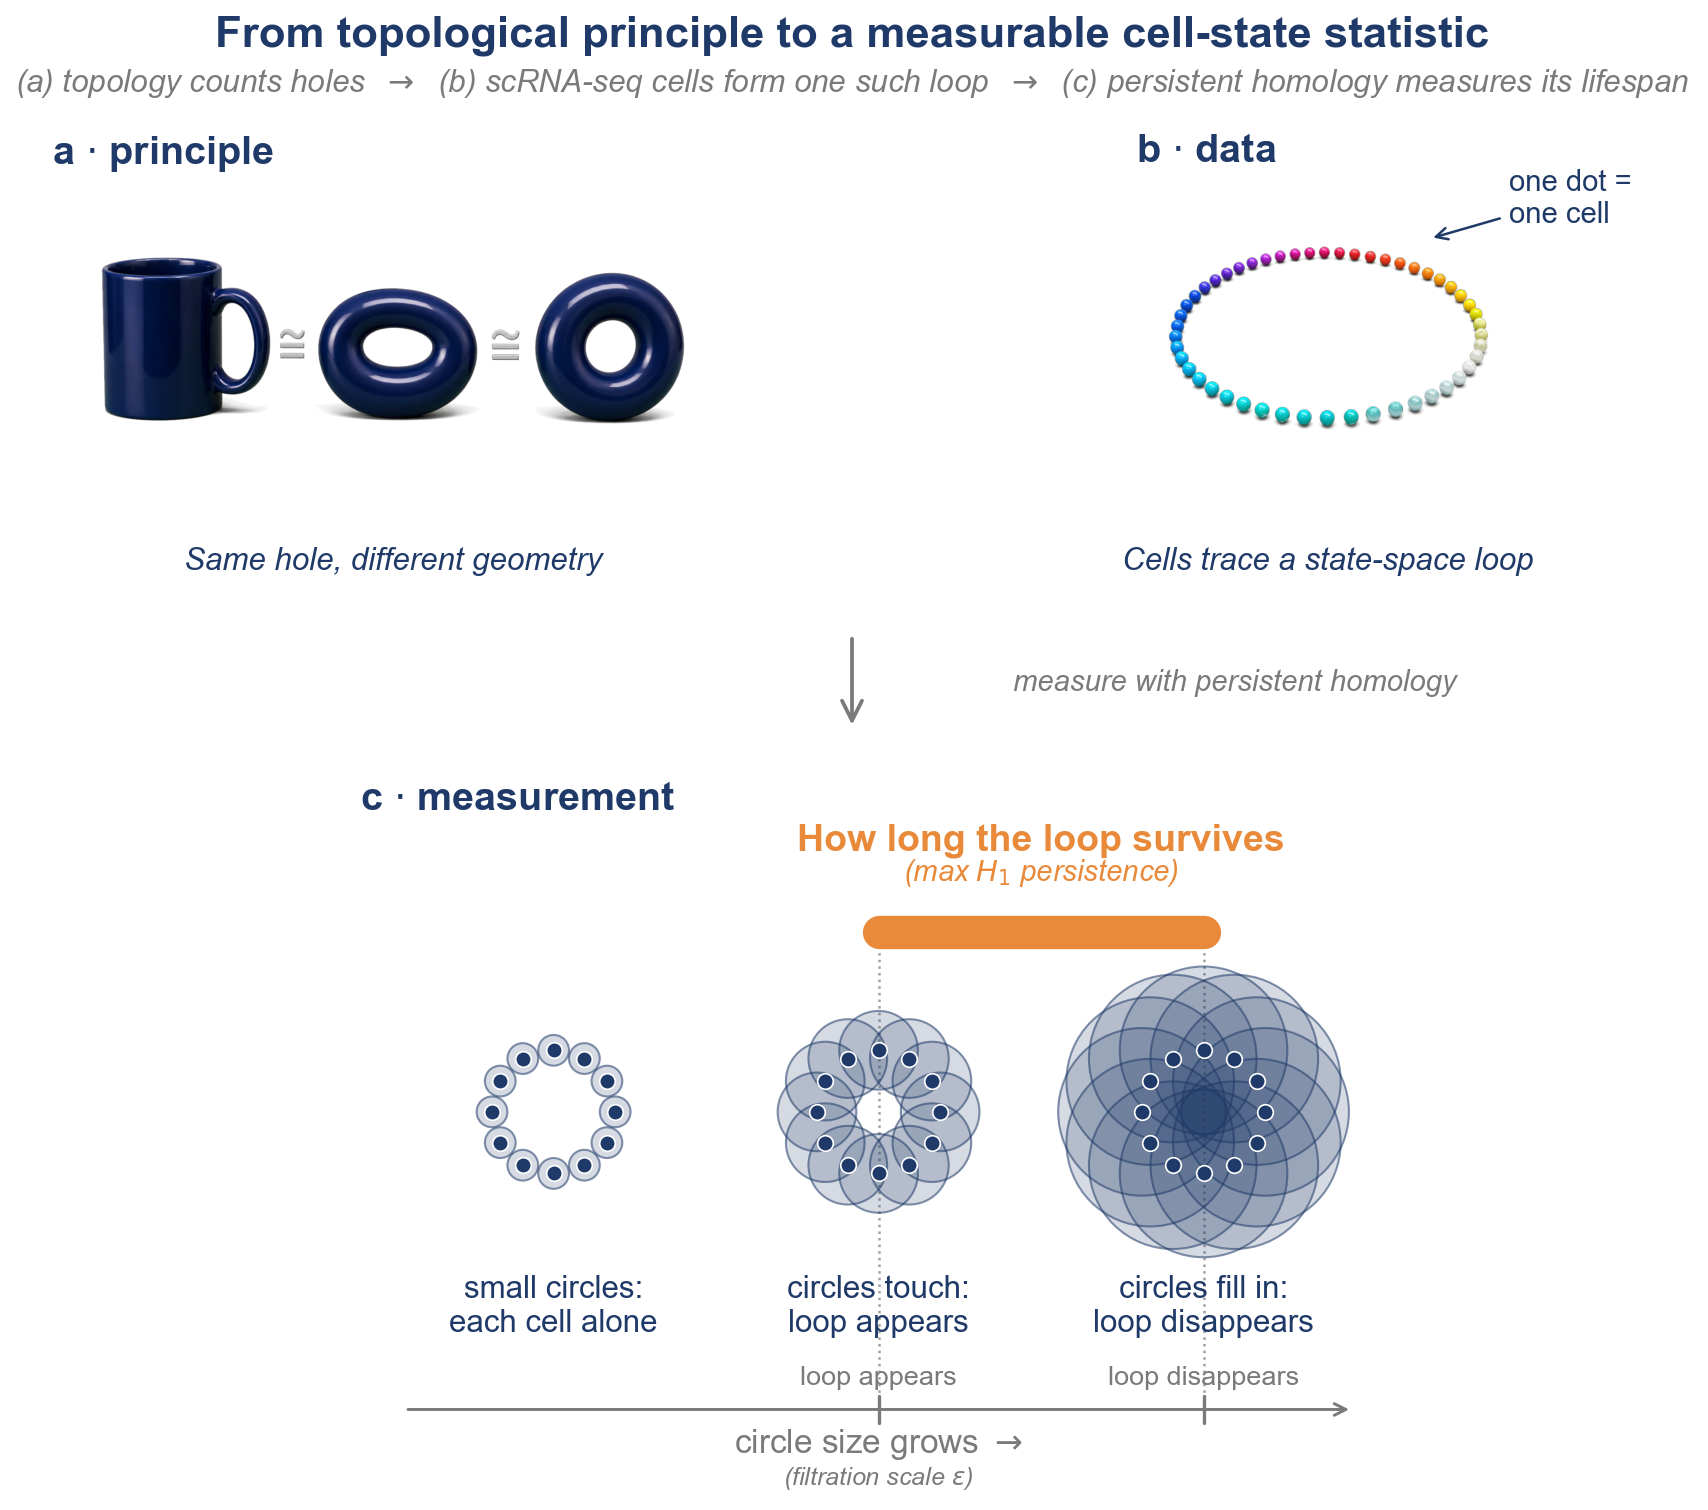
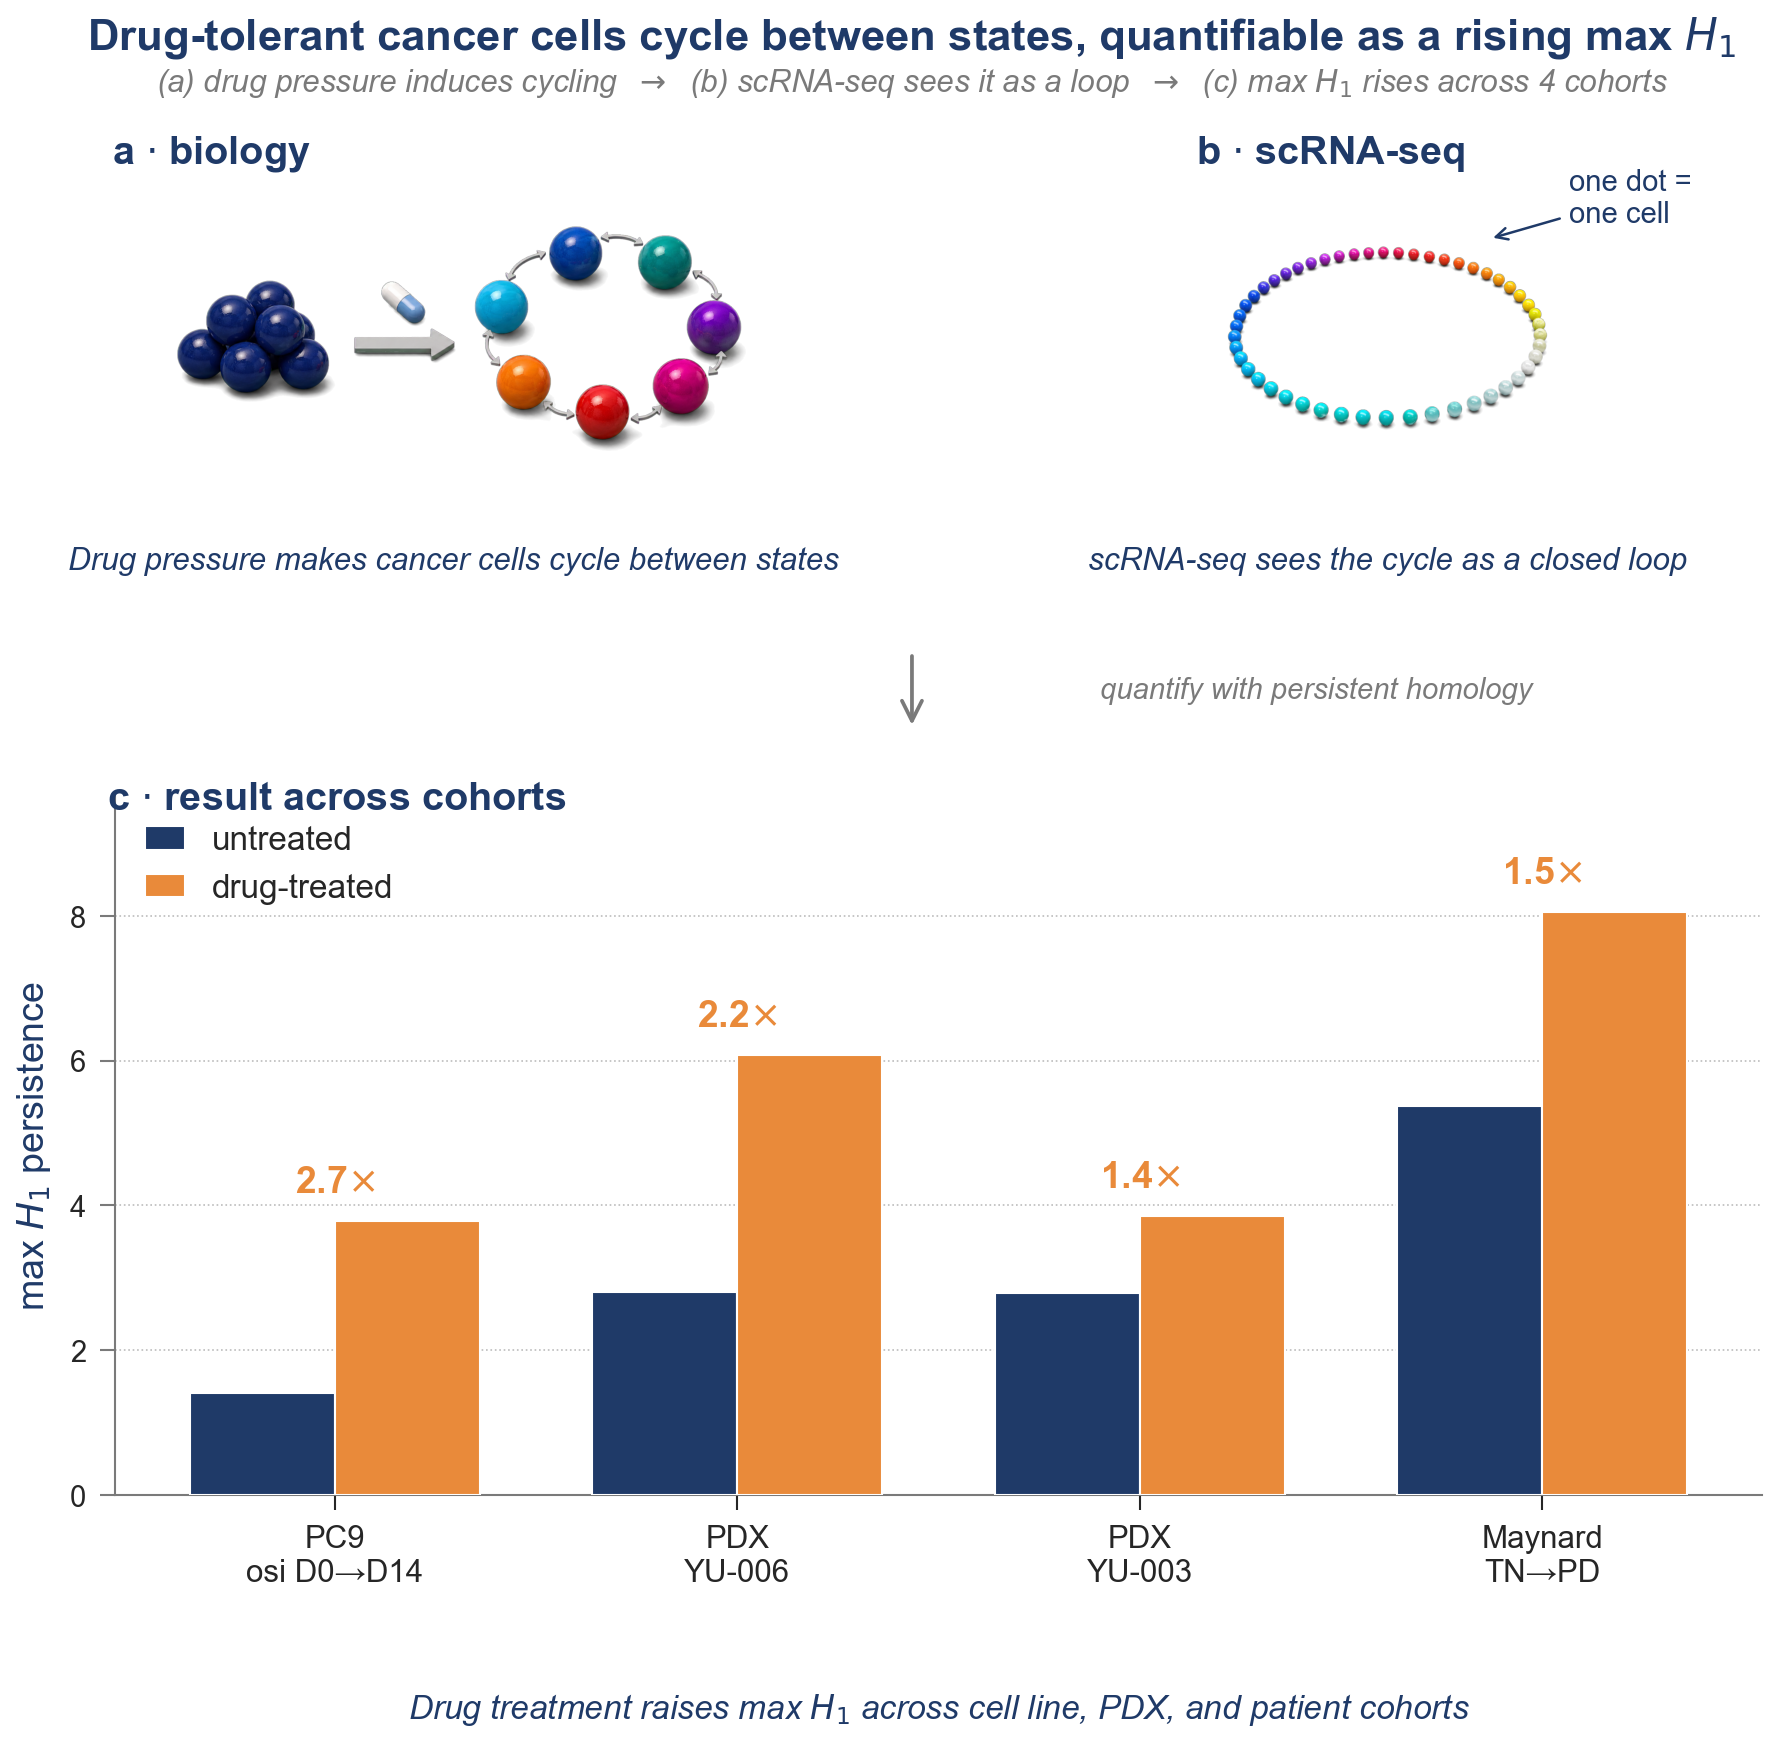
fig: Fig 1 — biology-first graphical abstract replaces topology pedagogy
User feedback after 10+ polish iterations: 'dumb as me cannot
understand wtf the figure going to capture me?' The previous Fig 1 was
a TDA textbook page (mug ≅ donut → cells loop → filtration scan), not
an oncology graphical abstract. A biomedical reader had to learn
topology before learning what the paper found.

Hard reset: Fig 1 now communicates THE FINDING, not the method.

Panel (a): NEW AI render via codex-imagegen. Uniform cluster of navy
ceramic cancer cells (untreated, one state) → drug arrow with a pill
icon → 8 cells arranged in a closed loop, each cell a different
ceramic colour showing reversible cycling between transcriptional
states. Subtitle: 'Drug pressure makes cancer cells cycle between
states.' This is the biology, not topology pedagogy.

Panel (b): unchanged (AI render of cells on a loop in scRNA-seq).
Subtitle updated to 'scRNA-seq sees the cycle as a closed loop'.

Panel (c): REPLACED. Was the filtration-process pedagogy (snapshots
of growing balls + ε axis + orange persistence bar). Now a paired
bar chart of untreated vs drug-treated max H_1 across 4 cohorts:
  PC9 osi D0→D14:   1.41 → 3.78  (2.7×)
  PDX YU-006:       2.81 → 6.08  (2.2×)
  PDX YU-003:       2.79 → 3.85  (1.4×)
  Maynard TN→PD:    5.37 → 8.05  (1.5×)
Fold-change labels above each pair make the headline visible at a
glance. Subtitle: 'Drug treatment raises max H_1 across cell line,
PDX, and patient cohorts.'

Headline banner rewritten:
[…]

diff --git a/scripts/fig1_concept.py b/scripts/fig1_concept.py
@@ -1,18 +1,20 @@
 #!/usr/bin/env python
 """
-Fig 1 concept: Topology distinguishes shapes that geometry cannot.
+Fig 1 — Graphical abstract: drug-tolerant cancer cells cycle between
+states, measurable as a rising max H_1 persistence across cohorts.
 
-Three panels:
-  (a) Photorealistic 3D render of a coffee mug, a donut-with-handle
-      intermediate, and a donut connected by congruence symbols ---
-      illustrating that homeomorphism preserves the single hole even as
-      geometry changes. The image is AI-generated (OpenAI gpt-image-1)
-      with chroma-key background removal; provenance and disclosure are
-      in manuscript/submission/declarations.md.
-  (b) Single-cell transcriptomes lying on a noisy closed loop in
-      cell-state coordinates (matplotlib scatter).
-  (c) A persistence barcode: short H_0 bars (noise) and one long
-      H_1 bar (the robust loop) (matplotlib).
+Three panels tell the biology-first story:
+  (a) AI render: untreated cancer cells (uniform cluster) → drug arrow
+      → cells cycling between states (loop of differently-coloured
+      cells). The biological finding.
+  (b) AI render: same cycling visible in scRNA-seq as a closed loop in
+      state-space (kept from previous version).
+  (c) Bar chart: paired untreated-vs-treated max H_1 across 4 cohorts
+      (PC9, PDX YU-006, PDX YU-003, Maynard patient cohort), with
+      fold-change labels. The headline result.
+
+The mug-donut topological-equivalence pedagogy now lives in one
+sentence in the Background prose, not Figure 1.
 
 Output: results/figures/fig1_concept_topology.{pdf,png}
 Also mirrored to manuscript/figures/.
@@ -36,8 +38,16 @@ import numpy as np
 from sctda_plasticity.config import FIGURES_DIR, PROJECT_ROOT, SEED
 from sctda_plasticity.visualize import save_figure, set_publication_style
 
-PANEL_A_PNG = FIGURES_DIR / "fig1_panel_a_3d.png"
+PANEL_A_PNG = FIGURES_DIR / "fig1_panel_a_biology.png"
 PANEL_B_PNG = FIGURES_DIR / "fig1_panel_b_3d.png"
+
+# Headline paired (untreated, treated) max H_1 values across cohorts.
+COHORT_DATA = [
+    ("PC9\nosi D0→D14", 1.41, 3.78, r"2.7$\times$"),
+    ("PDX\nYU-006", 2.81, 6.08, r"2.2$\times$"),
+    ("PDX\nYU-003", 2.79, 3.85, r"1.4$\times$"),
+    ("Maynard\nTN→PD", 5.37, 8.05, r"1.5$\times$"),
+]
 
 
 def _imshow_alpha_panel(ax, png_path, subtitle, overlay_fn=None):
@@ -115,109 +125,81 @@ LIGHT_GREY = "#b9b9b9"
 
 
 def panel_mug_to_donut(ax):
-    """(a) AI 3D render: mug ≅ pinched torus ≅ donut. All genus = 1."""
-    _imshow_alpha_panel(ax, PANEL_A_PNG, "Same hole, different geometry")
+    """(a) AI biology schematic: drug pressure → cells cycle between states.
+
+    Replaces the previous topology pedagogy (mug ≅ torus ≅ donut). The
+    new image shows a cluster of identical untreated cancer cells on the
+    left, an EGFR-TKI drug arrow, and a loop of differently-coloured
+    cells on the right showing reversible state cycling.
+    """
+    _imshow_alpha_panel(
+        ax, PANEL_A_PNG,
+        "Drug pressure makes cancer cells cycle between states",
+    )
 
 
 def panel_loop_cells(ax, rng):
-    """(b) AI 3D render of cells on a loop + explanatory overlay labels."""
+    """(b) AI 3D render: cells on a loop in scRNA-seq + overlay labels."""
     del rng
     _imshow_alpha_panel(
         ax, PANEL_B_PNG,
-        "Cells trace a state-space loop",
+        "scRNA-seq sees the cycle as a closed loop",
         overlay_fn=_overlay_panel_b,
     )
 
 
 def panel_barcode(ax, rng):
-    """(c) Filtration process → max H_1 persistence bar.
+    """(c) Bar chart: max H_1 rises with drug across 4 cohorts.
 
-    Three snapshots show the same cell loop with growing filtration
-    balls. Stage 1: small balls, cells are isolated components (H_0).
-    Stage 2: balls touch their neighbours' balls and the loop closes
-    --- the H_1 feature is *born*. Stage 3: balls fill the loop's
-    interior --- the H_1 feature *dies*. The orange bar above spans
-    birth-to-death = max H_1 persistence.
+    Paired (untreated, drug-treated) bars for PC9, PDX YU-006/YU-003,
+    and the Maynard 14-patient cohort. Fold-change labels above each
+    pair make the headline finding immediately readable.
     """
     del rng
-    # Wide layout: data range 0..3.0 in x to match the wide bottom-row
-    # cell. Snapshots spaced across the full width.
-    s_y = 0.45
-    s_x = [0.55, 1.50, 2.45]
-    loop_r = 0.18
-    ball_radii = [0.045, 0.115, 0.245]  # small / just-touching / interior-filling
+    cohorts = [c[0] for c in COHORT_DATA]
+    pre = np.array([c[1] for c in COHORT_DATA])
+    post = np.array([c[2] for c in COHORT_DATA])
+    folds = [c[3] for c in COHORT_DATA]
 
-    # Three filtration snapshots
-    for cx, br in zip(s_x, ball_radii):
-        _draw_filtration_step(ax, cx, s_y, loop_r, br, n_cells=12)
-    # Stage labels under each snapshot — plain language first, technical
-    # ε-notation in small parens for the specialist reader only.
-    stage_labels = [
-        "small circles:\neach cell alone",
-        "circles touch:\nloop appears",
-        "circles fill in:\nloop disappears",
-    ]
-    for cx, label in zip(s_x, stage_labels):
-        ax.text(
-            cx, s_y - loop_r - ball_radii[-1] - 0.05, label,
-            fontsize=7.5, color=NAVY, ha="center", va="top",
-        )
+    n = len(cohorts)
+    x = np.arange(n)
+    w = 0.36
 
-    # Plain-language axis at the bottom (technical name kept in tiny grey)
-    eps_axis_y = -0.42
-    ax.annotate(
-        "", xy=(2.90, eps_axis_y), xytext=(0.10, eps_axis_y),
-        arrowprops=dict(arrowstyle="->", lw=0.7, color=GREY),
-    )
-    ax.text(
-        1.50, eps_axis_y - 0.05,
-        "circle size grows $\\rightarrow$",
-        fontsize=8, color=GREY, ha="center", va="top",
-    )
-    ax.text(
-        1.50, eps_axis_y - 0.16,
-        r"(filtration scale $\varepsilon$)",
-        fontsize=6, color=GREY, style="italic", ha="center", va="top",
-    )
+    ax.bar(x - w / 2, pre, w,
+           label="untreated", color=NAVY,
+           edgecolor="white", linewidth=0.5, zorder=3)
+    ax.bar(x + w / 2, post, w,
+           label="drug-treated", color=ORANGE,
+           edgecolor="white", linewidth=0.5, zorder=3)
 
-    # The orange bar: spans from snapshot 2 (loop appears) to snapshot 3
-    # (loop disappears) — its length is the loop's lifespan.
-    bar_y = s_y + loop_r + ball_radii[-1] + 0.10
-    bar_x0, bar_x1 = s_x[1], s_x[2]
-    ax.plot([bar_x0, bar_x1], [bar_y, bar_y],
-            color=ORANGE, lw=8, solid_capstyle="round", zorder=8)
-    # Vertical drop-lines tying the bar to the axis below
-    for x in (bar_x0, bar_x1):
-        ax.plot([x, x], [bar_y - 0.04, eps_axis_y],
-                color=GREY, lw=0.6, linestyle=":", alpha=0.7, zorder=1)
-    # Endpoint markers labelled in plain language
-    endpoint_labels = ["loop appears", "loop disappears"]
-    for x, txt in zip([bar_x0, bar_x1], endpoint_labels):
-        ax.plot([x, x], [eps_axis_y - 0.04, eps_axis_y + 0.04],
-                color=GREY, lw=0.8, zorder=2)
-        ax.text(x, eps_axis_y + 0.06, txt,
-                fontsize=6.5, color=GREY, ha="center", va="bottom")
-    # Plain-language bar label, with technical name parenthesised
-    ax.text(
-        (bar_x0 + bar_x1) / 2, bar_y + 0.22,
-        "How long the loop survives",
-        fontsize=9, color=ORANGE, fontweight="bold",
-        ha="center", va="bottom",
-    )
-    ax.text(
-        (bar_x0 + bar_x1) / 2, bar_y + 0.13,
-        r"(max $H_1$ persistence)",
-        fontsize=7, color=ORANGE, style="italic",
-        ha="center", va="bottom",
-    )
+    # Fold-change labels above each cohort pair
+    ymax = float(post.max())
+    for i, (p, q, fold) in enumerate(zip(pre, post, folds)):
+        top = max(p, q)
+        ax.text(i, top + 0.30, fold,
+                ha="center", va="bottom",
+                fontsize=9, color=ORANGE, fontweight="bold")
 
-    ax.set_xlim(0, 3.0)
-    ax.set_ylim(eps_axis_y - 0.25, bar_y + 0.40)
-    ax.set_aspect("equal")
-    ax.set_xticks([])
-    ax.set_yticks([])
-    for spine in ax.spines.values():
-        spine.set_visible(False)
+    ax.set_xticks(x)
+    ax.set_xticklabels(cohorts, fontsize=7.5)
+    ax.set_ylabel("max $H_1$ persistence", fontsize=9, color=NAVY)
+    ax.set_ylim(0, ymax * 1.20)
+    ax.tick_params(axis="y", labelsize=7)
+    ax.legend(frameon=False, loc="upper left", fontsize=8, handlelength=1.2)
+    ax.spines["top"].set_visible(False)
+    ax.spines["right"].set_visible(False)
+    ax.spines["left"].set_color(GREY)
+    ax.spines["bottom"].set_color(GREY)
+    ax.yaxis.set_tick_params(color=GREY)
+    ax.grid(axis="y", color=GREY, linestyle=":", linewidth=0.4, alpha=0.5, zorder=0)
+
+    # Subtitle (in italic) below the axis
+    ax.text(
+        0.5, -0.28,
+        "Drug treatment raises max $H_1$ across cell line, PDX, and patient cohorts",
+        transform=ax.transAxes, ha="center", va="top",
+        fontsize=8, color=NAVY, style="italic",
+    )
 
 
 def _draw_story_arrow(fig, x0, y0, x1, y1, text, text_offset=(0, 0)):
@@ -245,17 +227,18 @@ def main():
     fig = plt.figure(figsize=(180 / 25.4, 145 / 25.4))
 
     # Story banner: bold headline + italic three-step subtitle.
-    # Tells the reader at-a-glance that A, B, C are three steps of one story.
+    # Communicates the paper's finding at-a-glance.
     fig.text(
         0.5, 0.975,
-        "From topological principle to a measurable cell-state statistic",
+        "Drug-tolerant cancer cells cycle between states, quantifiable "
+        "as a rising max $H_1$",
         fontsize=10.5, fontweight="bold", ha="center", va="top", color=NAVY,
     )
     fig.text(
         0.5, 0.945,
-        "(a) topology counts holes  $\\rightarrow$  (b) scRNA-seq cells "
-        "form one such loop  $\\rightarrow$  (c) persistent homology "
-        "measures its lifespan",
+        "(a) drug pressure induces cycling  $\\rightarrow$  "
+        "(b) scRNA-seq sees it as a loop  $\\rightarrow$  "
+        "(c) max $H_1$ rises across 4 cohorts",
         fontsize=7.5, style="italic", ha="center", va="top", color=GREY,
     )
 
@@ -267,32 +250,30 @@ def main():
         hspace=0.32, wspace=0.10,
     )
 
-    # Step-tagged panel labels: short action-tags announce each panel's role
+    # Step-tagged panel labels announce each panel's role
     ax_a = fig.add_subplot(gs[0, 0])
     panel_mug_to_donut(ax_a)
-    ax_a.text(-0.02, 1.02, r"a $\cdot$ principle",
+    ax_a.text(-0.02, 1.02, r"a $\cdot$ biology",
               transform=ax_a.transAxes,
               fontsize=9.5, fontweight="bold", va="top", color=NAVY)
 
     ax_b = fig.add_subplot(gs[0, 1])
     panel_loop_cells(ax_b, rng)
-    ax_b.text(-0.02, 1.02, r"b $\cdot$ data",
+    ax_b.text(-0.02, 1.02, r"b $\cdot$ scRNA-seq",
               transform=ax_b.transAxes,
               fontsize=9.5, fontweight="bold", va="top", color=NAVY)
 
     ax_c = fig.add_subplot(gs[1, :])
     panel_barcode(ax_c, rng)
-    ax_c.text(-0.005, 1.02, r"c $\cdot$ measurement",
+    ax_c.text(-0.005, 1.02, r"c $\cdot$ result across cohorts",
               transform=ax_c.transAxes,
               fontsize=9.5, fontweight="bold", va="top", color=NAVY)
 
-    # Narrative connector: a single vertical arrow from the top row down
-    # to panel (c). The A → B direction is already conveyed by left-to-
-    # right reading and the headline; only the row-break needs an arrow.
+    # Narrative connector: vertical arrow from the top row down to panel (c).
     _draw_story_arrow(
-        fig, x0=0.5, y0=0.615, x1=0.5, y1=0.555,
-        text="measure with persistent homology",
-        text_offset=(0.18, 0),
+        fig, x0=0.5, y0=0.605, x1=0.5, y1=0.555,
+        text="quantify with persistent homology",
+        text_offset=(0.19, 0),
     )
 
     save_figure(fig, "fig1_concept_topology", output_dir=str(FIGURES_DIR))

diff --git a/manuscript/preprint.tex b/manuscript/preprint.tex
@@ -104,21 +104,20 @@ data's point cloud.
 \subsection*{Topological data analysis as a framework-level remedy}
 
 \paragraph{An intuitive picture for biomedical readers.}
-Topology studies the properties of shapes that survive continuous
-deformation --- a coffee mug and a donut are the same shape because
-each has exactly one hole, and one can be smoothly deformed into the
-other (\cref{fig:concept}a). Plot each cell as a point in
-gene-expression space: cells transitioning linearly between states
-trace an elongated cloud, while cells that reversibly cycle (e.g.\
-epithelial $\to$ intermediate $\to$ mesenchymal $\to$ epithelial)
-arrange into a closed \emph{1-cycle} --- a loop that is not the
-boundary of any filled-in disc within the data (\cref{fig:concept}b).
-Tree-based trajectory methods force such a loop into a branching tree
-and discard the cyclic information. Persistent homology measures how
-robustly a 1-cycle survives as the connecting distance scale grows:
-the lifespan of the longest bar in the resulting \emph{barcode}
-(\cref{fig:concept}c) is the \emph{maximum $H_1$ persistence} used
-throughout this work. Mapper complements this with an interpretable
+Drug-tolerant cancer cells appear not to die or jump to one resistant
+state but to reversibly cycle between several transcriptional states
+(\cref{fig:concept}a). When each cell is plotted as a point in
+gene-expression space, this reversible cycling traces a closed loop
+--- the same kind of one-dimensional ``hole'' that distinguishes a
+donut from a sphere in topology, and which tree-based trajectory
+methods discard by force-fitting branching graphs
+(\cref{fig:concept}b). Persistent homology quantifies the loop's
+robustness across spatial scales: the lifespan of the longest such
+loop is the \emph{maximum $H_1$ persistence} statistic used
+throughout this paper. The headline finding is that this statistic
+rises monotonically with EGFR-TKI exposure across PC9 cell line,
+two PDX models, and a 14-patient longitudinal cohort
+(\cref{fig:concept}c). Mapper complements this with an interpretable
 graph in which nodes group transcriptionally similar cells and edges
 connect related nodes \citep{singh2007}.
 
@@ -714,15 +713,23 @@ of scanpy, ripser, persim, kmapper, harmonypy, and giotto-tda.
   \IfFileExists{../results/figures/fig1_concept_topology.pdf}{%
     \includegraphics[width=0.95\linewidth]{fig1_concept_topology.pdf}%
   }{\fbox{\parbox{0.9\linewidth}{\centering\vspace{2em}Figure 1 placeholder: \texttt{fig1\_concept\_topology.pdf}\vspace{2em}}}}
-  \caption{\textbf{Topology distinguishes shapes that geometry cannot.}
-  (a) Mug and donut share one hole and are continuously deformable
-  into one another --- topologically equivalent despite different
-  geometry. (b) Cells reversibly cycling among states lie on a closed
-  loop in state-space; the loop itself is the invariant.
-  (c) Persistent homology summarises this as a barcode: short bars
-  reflect noise ($H_0$ components); one long $H_1$ bar (orange) marks
-  a robust loop. Its lifetime is the \emph{maximum $H_1$ persistence}
-  used throughout this work.}
+  \caption{\textbf{Drug-tolerant cancer cells cycle between states,
+  quantifiable as a rising maximum $H_1$ persistence.}
+  (a) Untreated cancer cells occupy a uniform transcriptional state;
+  under EGFR-TKI pressure they diversify into multiple states with
+  reversible transitions between them (cells coloured by state).
+  (b) In scRNA-seq, this reversible cycling appears as a closed loop
+  in cell-state space (one dot = one cell). Persistent homology
+  measures the loop's robustness across spatial scales; the lifespan
+  of the longest such loop defines the \emph{maximum $H_1$
+  persistence} statistic used throughout this work.
+  (c) Across four EGFR-mutant lung-cancer cohorts --- PC9 osimertinib
+  (D0$\to$D14, 2.7$\times$), PDX YU-006 (2.2$\times$), PDX YU-003
+  (1.4$\times$), and the Maynard 14-patient cohort (TN$\to$PD,
+  1.5$\times$) --- maximum $H_1$ persistence rises with drug treatment
+  in every comparison. The mug-and-donut topological-equivalence
+  analogy that motivates this statistic is described in the
+  Background.}
   \label{fig:concept}
 \end{figure}
 